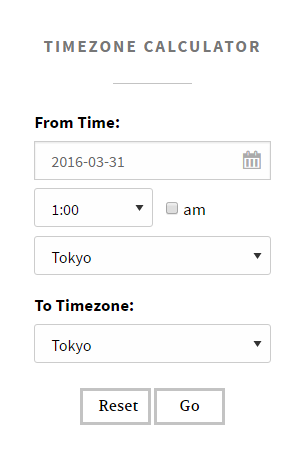
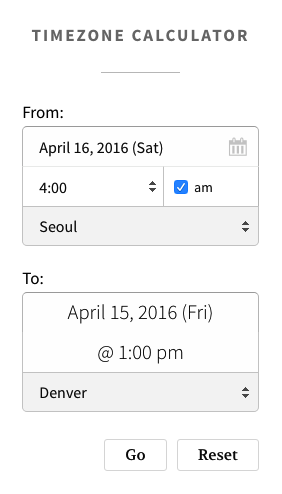
Fix widget styles

diff --git a/style.css b/style.css
@@ -128,6 +128,7 @@
 }
 .jkl-from-time .jkl-ampm {
     float: left;
+    background: white;
     padding: 8px 10px 0;
     width: 30%;
     border-top: 1px solid #ededed;
@@ -204,6 +205,11 @@
 /*
  * WIDGET Specific Styles
  */
+.jkl_timezones_widget #jkl_timezones_form {
+    padding: 0;
+    box-shadow: none;
+    background: transparent;
+}
 .jkl_timezones_widget h4,
 .jkl_timezones_widget .jkltz-equal-sign {
     display: none;
@@ -218,8 +224,8 @@
     width: 40%;
 }
 .jkl_timezones_widget .dashicons-calendar {
-    top: 52px;
-    right: 30px;
+    top: 33px;
+    right: 12px;
 }
 
 /*
